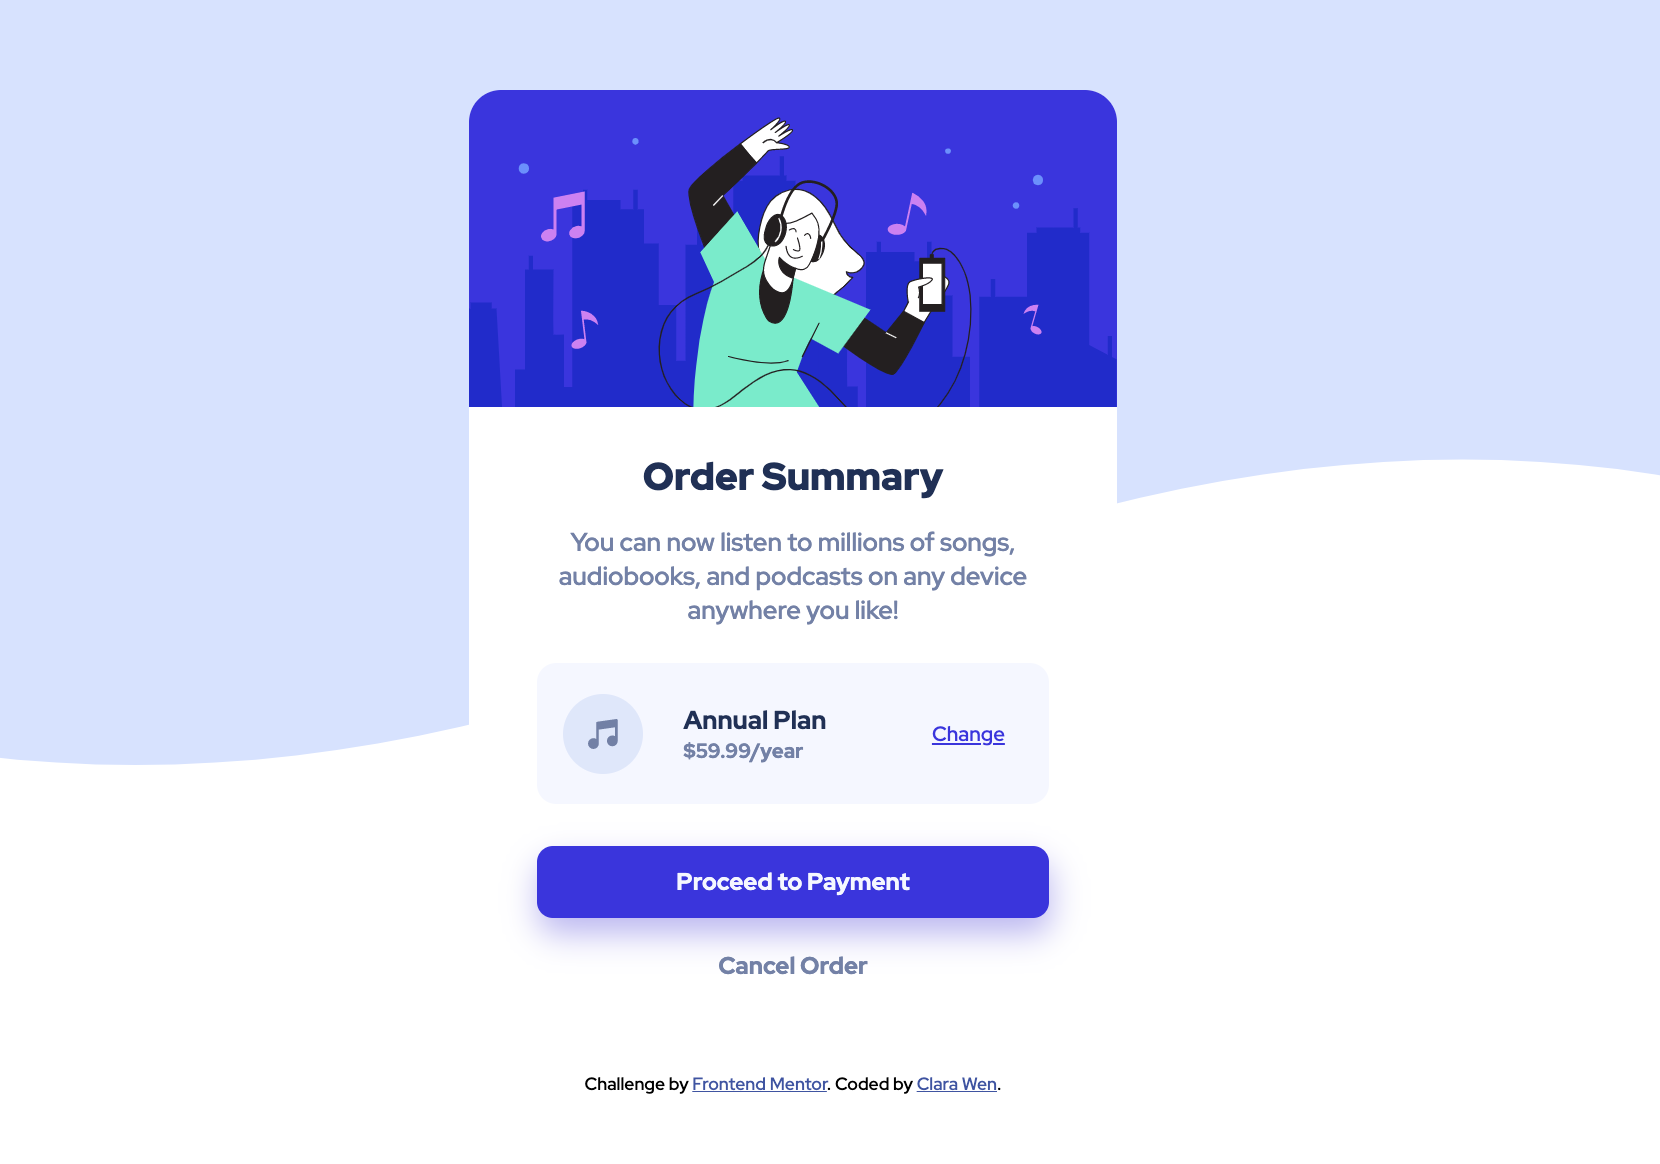
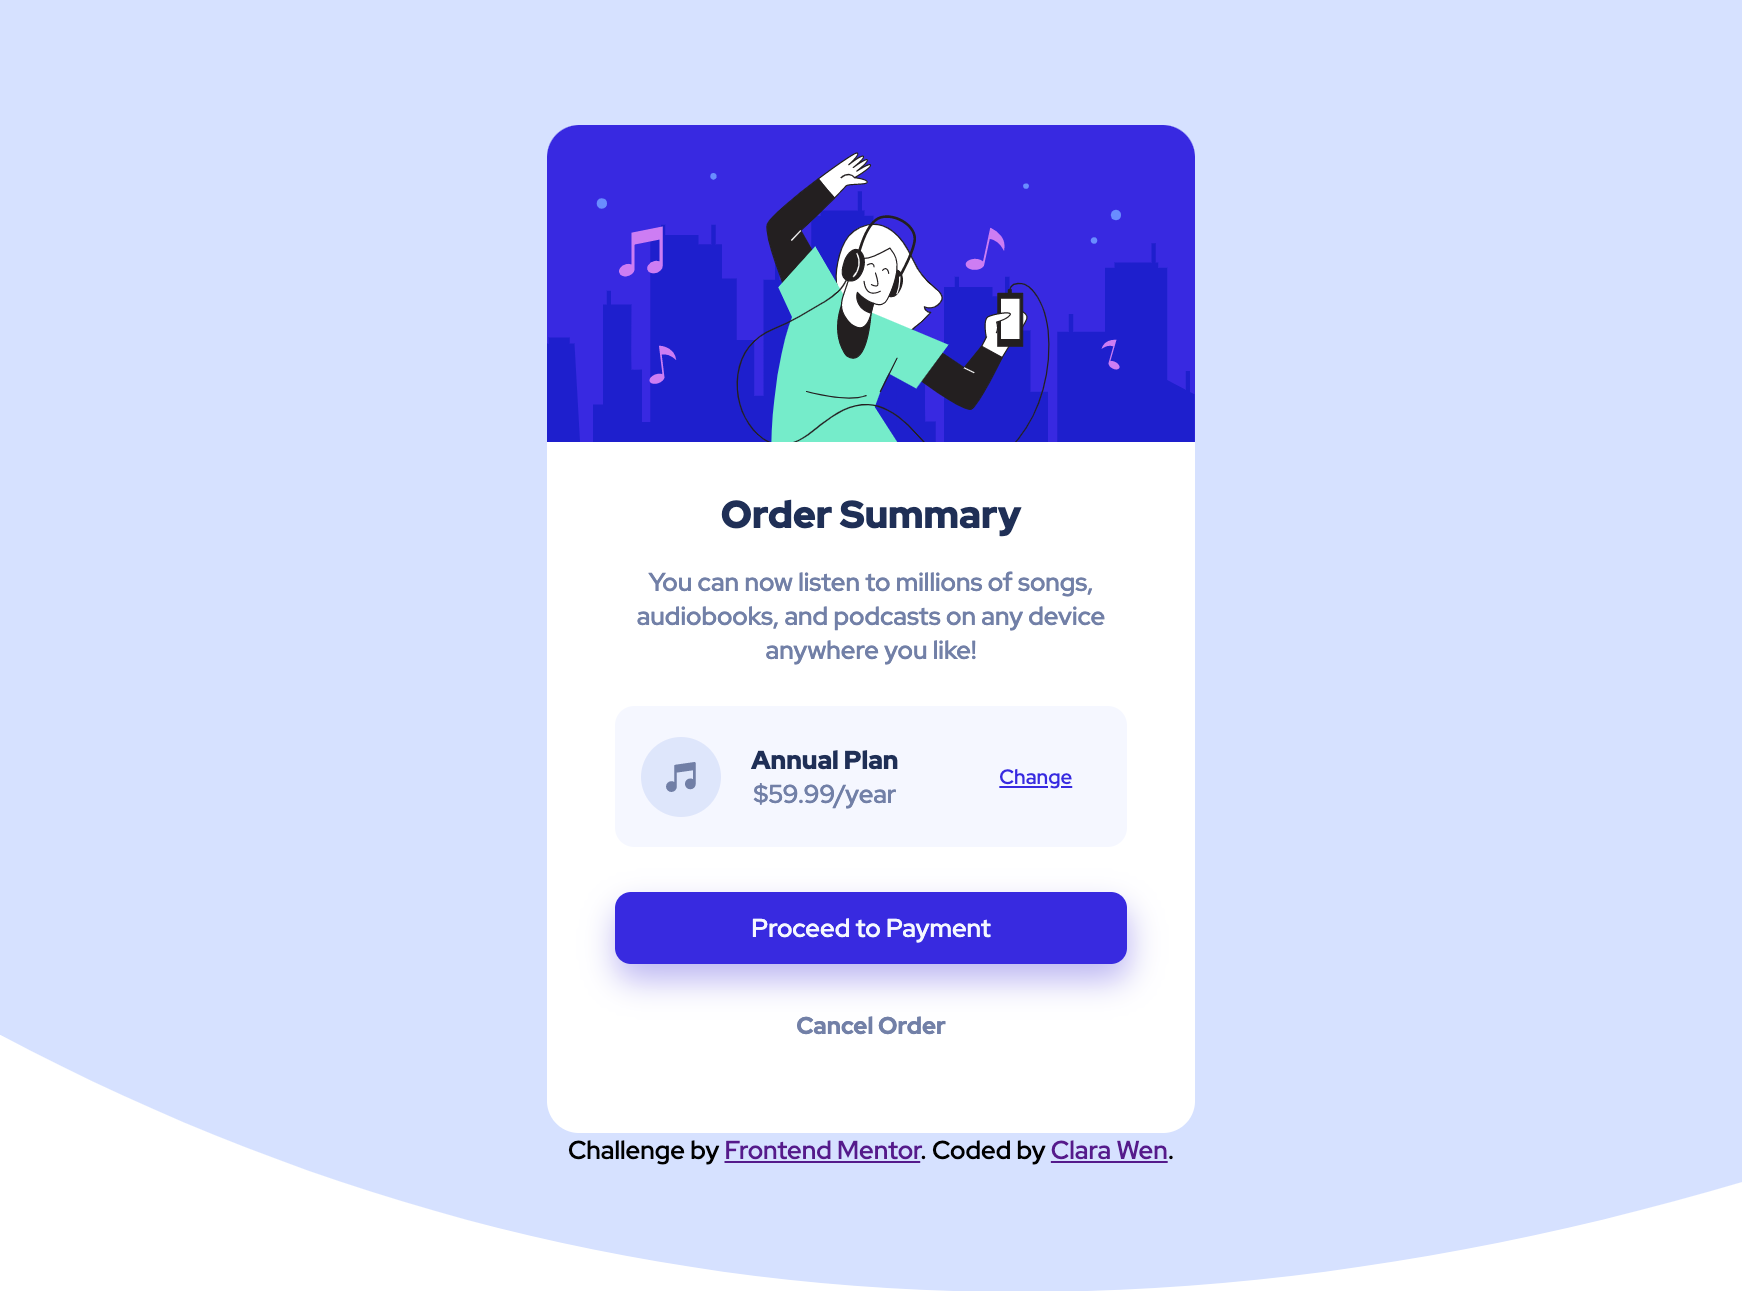
center the page by styling the body and minor font size changes, fixed footer issue

diff --git a/orderSummaryComponent/styles.css b/orderSummaryComponent/styles.css
@@ -20,23 +20,21 @@ body {
     background-size: cover;
     display: flex;
     justify-content: center;
+    align-items: center;
+    flex-direction: column;
+    min-height: 100vh;
+
+    /* border: 2px solid red; */
 }
 
 
 .container {
-    position: absolute;
-    top: 50%;
-    left: 50%;
-    transform: translateX(-50%) translateY(-50%);
-    -webkit-transform: translateX(-50%) translateY(-50%);
-    transform: translateX(-50%) translateY(-50%);
     height: 566px;
     width: 328px;
     background-color: #ffffff;
-
     border-radius: 20px;
 
-    /* border: 1px solid red; */
+    /* border: 1px solid blue; */
 }
 
 .header {
@@ -72,6 +70,7 @@ body {
     text-align: center;
     background-color: #ffffff;
     color: var(--Dark-blue);
+
     /* border: 1px solid green; */
 }
 
@@ -84,7 +83,6 @@ body {
     margin-top: 2vh;
     color: var(--Desaturated-blue);
     background-color: #ffffff;
-
 
     /* border: 1px solid blue; */
 }
@@ -156,8 +154,7 @@ body {
     justify-content: center;
     border-radius: 10px;
     margin-top: 1vh;
-    /* font-size: 15px; */
-    font-weight: 700;
+    margin-bottom: 1vh;
     border: none;
     box-shadow: 1px 10px 20px hsl(246, 70%, 83%);
     /* border: 1px solid red; */
@@ -197,7 +194,7 @@ body {
     background-color: transparent;
     border: none;
     box-shadow: none;
-    font-size: 15px;
+
 }
 
 .cancel:active,
@@ -209,6 +206,8 @@ body {
 .cancel a:visited {
     color: var(--Desaturated-blue);
     text-decoration: none;
+    font-size: 15px;
+    font-weight: 700;
 }
 
 .cancel a:active,
@@ -218,16 +217,11 @@ body {
     color: var(--Dark-blue);
 }
 
-footer {
-    position: absolute;
-    bottom: 8vh;
-    /* border: 1px solid black; */
-}
-
 
 @media only screen and (min-width: 767px) {
     body {
         background-image: url('images/pattern-background-desktop.svg');
+
     }
 
     .container {
